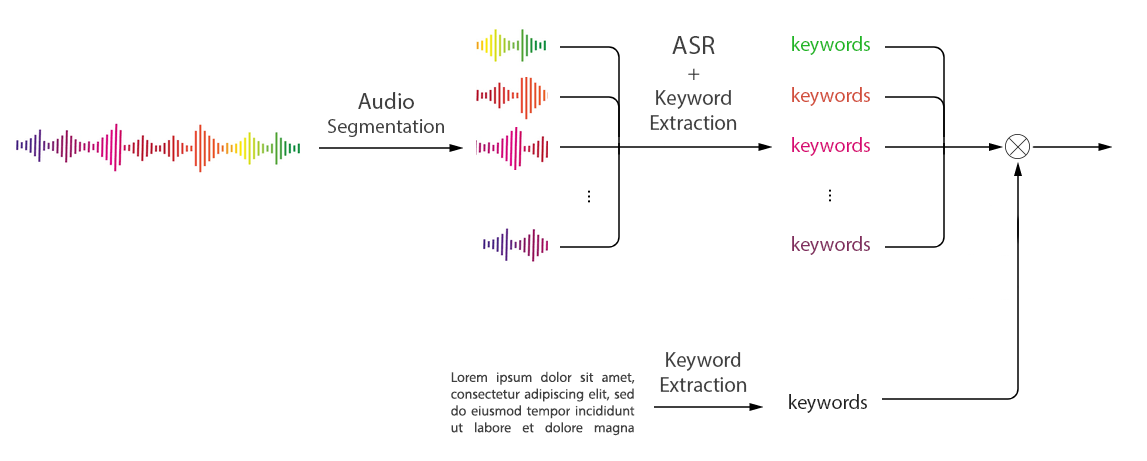
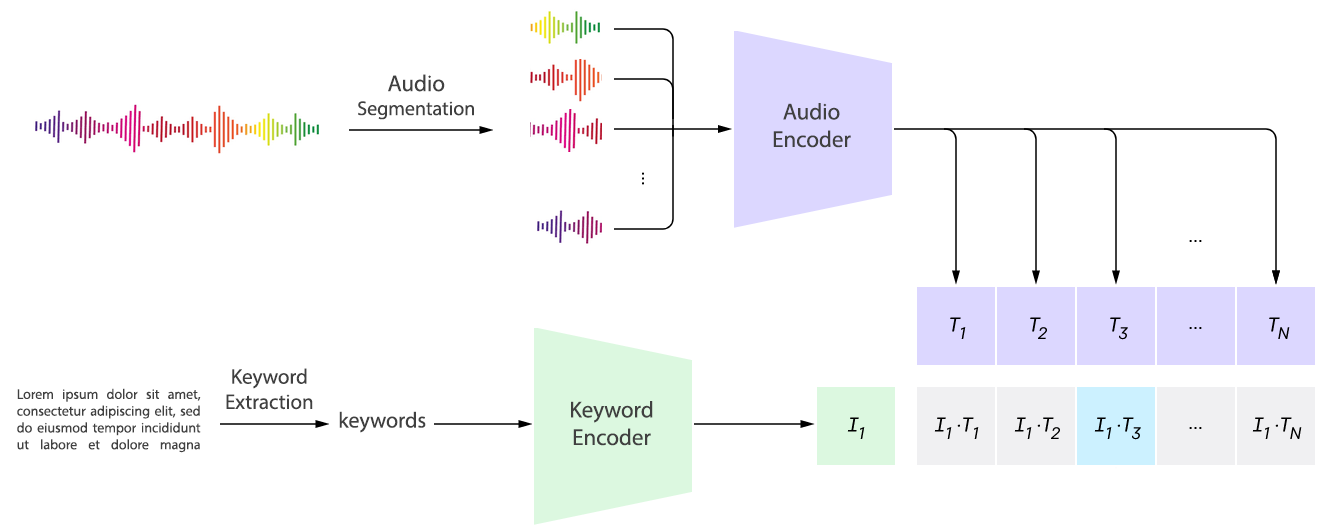
Change

diff --git a/content/projects/AudioTextLocalizer.md b/content/projects/AudioTextLocalizer.md
@@ -60,6 +60,22 @@ We use various methods such as PKE, BERT-based Language Model, YAKE algorithm, M
 
 ##### Model
 
+###### Baseline
+
+In the baseline model, we take a text and an audio and then chunk the audio using rule-based methods. We the use ASR models to get the text of audio, and then, we calculate the similarity of the query text and the text extracted from audio. Finally, we retrieve the relevant chunks of audio based on this similarity.
+
+###### Proposed Model
+
+In our proposed model, we train them using Unsupervised Contrastive Learning paradigm, where for batches of pairs of text and audio, the model will learn to encode audios and text to a shared embedding space and maximize the similarity between pairs and minimize the similarity between text and audio from different pairs. In the inference time, the model accepts a text query and chunks of audio and will return the similarity score between the text and the audio chunks.
+
+Training Time:
+
+![Proposed Model Training Time](/AudioTextLocalizer/training.png)
+
+Inference Time:
+
+![Proposed Model Inference Time](/AudioTextLocalizer/inference.png)
+
 ---
 
 ##### Collaborators
